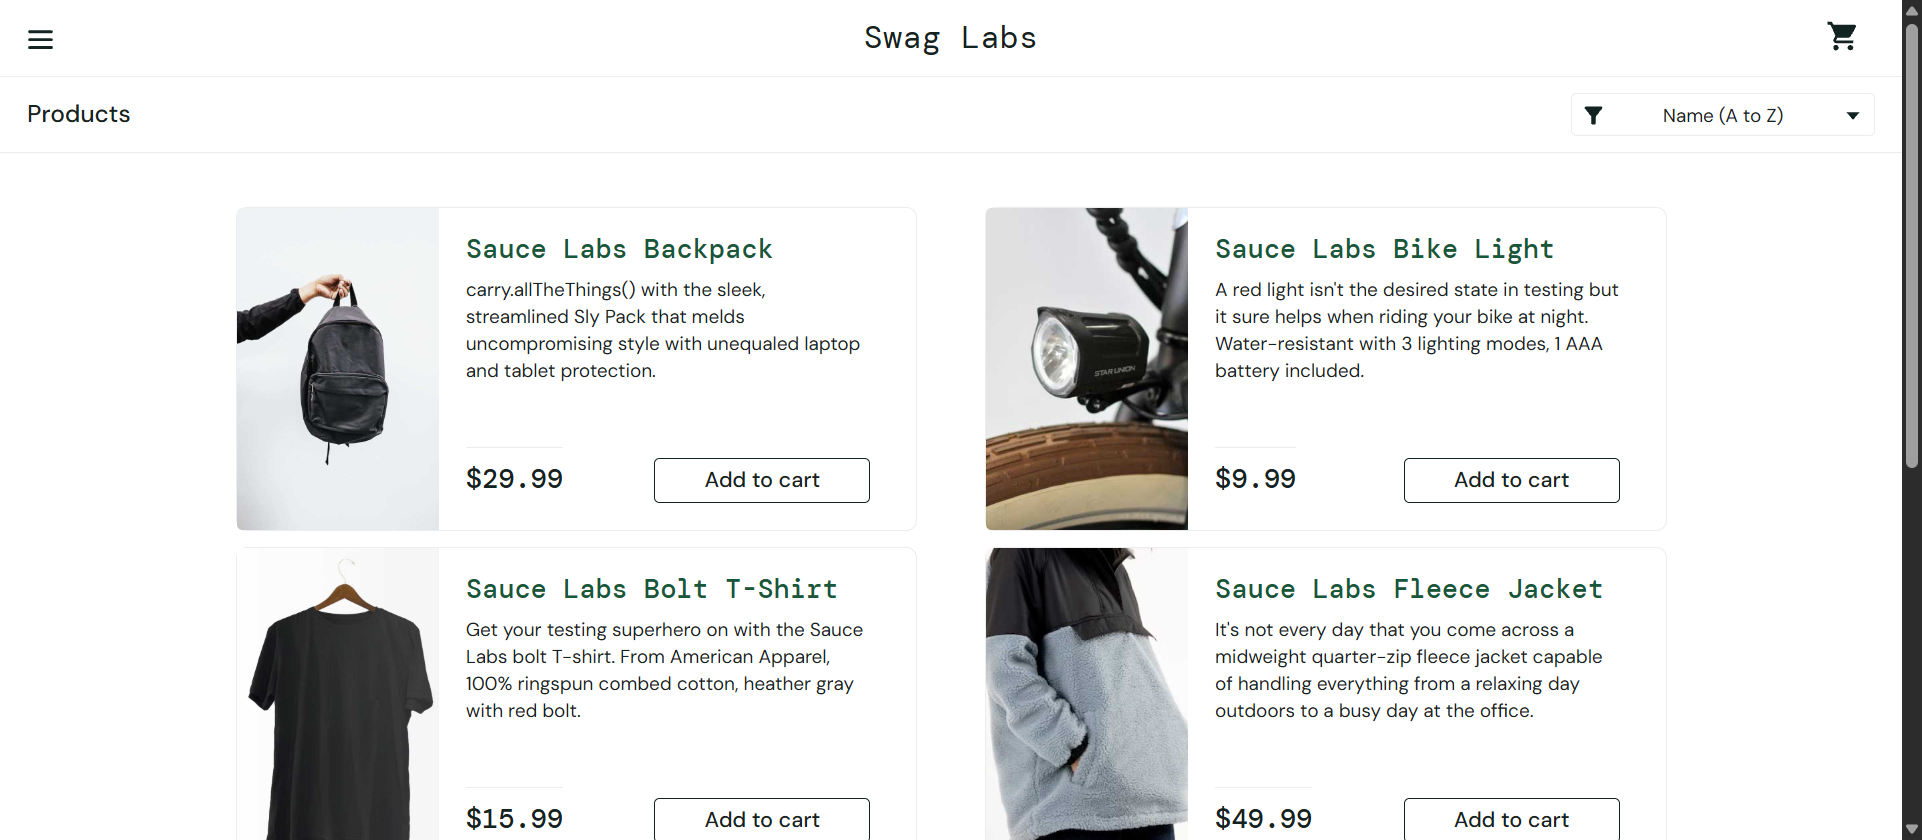
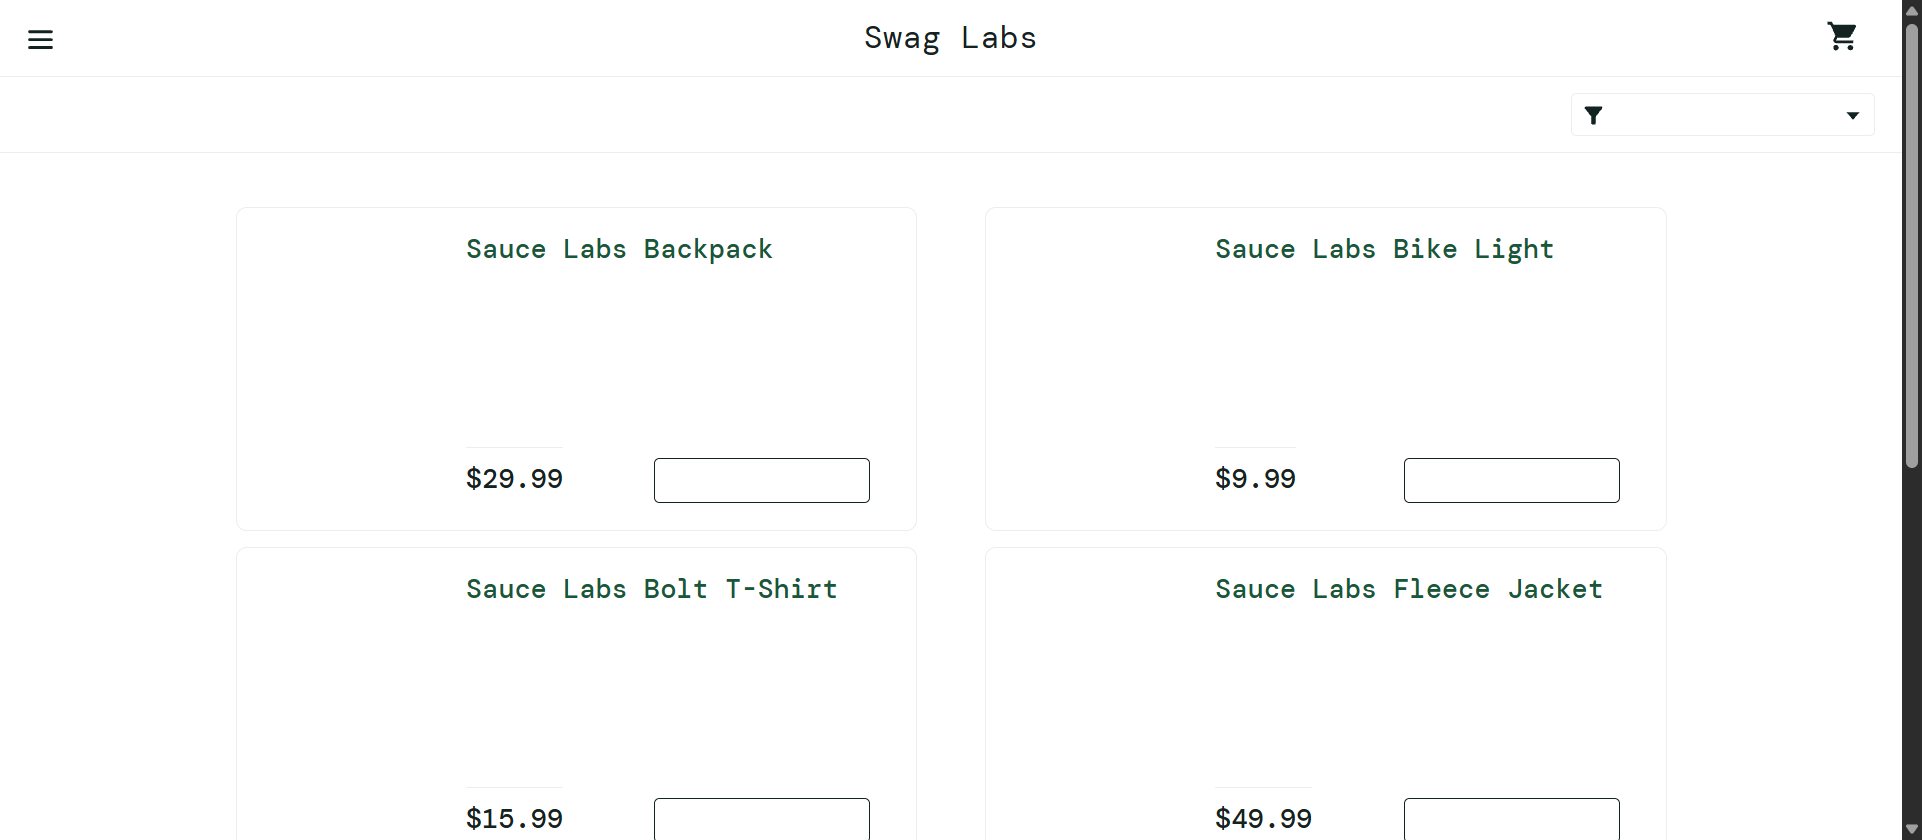
set1 done

diff --git a/QA automation by WO/set1/4test_cart.py b/QA automation by WO/set1/4test_cart.py
@@ -1,24 +1,13 @@
 from selenium import webdriver
 import os
 from selenium.webdriver.common.by import By
-from selenium.webdriver.support.ui import WebDriverWait,
-
-# it will give the mixture path 
-sc_path = os.path.join(os.path.dirname(__file__),"..","screenshots")
-
-# it converts mixture path into absoute path 
-sc_path = os.path.abspath(sc_path)
-
-
+from selenium.webdriver.support.ui import WebDriverWait
+from selenium.webdriver.support import expected_conditions as EC
 
 
 ops = webdriver.ChromeOptions()
 
-ops.add_experimental_option("prefs", {
-    "credentials_enable_service": False,
-    "profile.password_manager_enabled": False,
-    "profile.password_manager_leak_detection": False
-})
+ops.add_argument("--disable-features=PasswordManagerOnboarding")
 
 driver = webdriver.Chrome(options=ops)
 driver.maximize_window()
@@ -27,36 +16,51 @@ try :
     wait = WebDriverWait(driver,10)
     
     driver.get("https://www.saucedemo.com/")
+
+    username = wait.until(EC.visibility_of_element_located((By.ID, "user-name")))
     
-    driver.find_element(By.ID, "user-name").send_keys("standard_user")
-    
-    driver.find_element(By.ID,"password").send_keys("secret_sauce")
+    username.send_keys("standard_user")
+
+    passwd = wait.until(EC.visibility_of_element_located((By.ID,"password")))
+    passwd.send_keys("secret_sauce")
     
     driver.find_element(By.ID, "login-button").click()
 
-    driver.find_element(
+    bg_button = wait.until(EC.visibility_of_element_located((
         By.XPATH, '//*[@id="add-to-cart-sauce-labs-onesie"]'
-    ).click()
+    )))
+    bg_button.click()
 
-    driver.find_element(
+    biekbutn = wait.until(EC.visibility_of_element_located((
         By.ID, "add-to-cart-sauce-labs-bike-light"
-    ).click()
-    ctn = driver.find_element(By.XPATH,'//*[@id="shopping_cart_container"]/a/span').text
+    )))
+
+    biekbutn.click()
+
+    ctn = wait.until(EC.visibility_of_element_located((By.XPATH,'//*[@id="shopping_cart_container"]/a/span'))).text
 
     assert ctn == "2"
     print("pass1")
 
-    driver.find_element(By.XPATH,'//*[@id="remove-sauce-labs-onesie"]').click()
+    onesie = wait.until(EC.visibility_of_element_located((By.XPATH,'//*[@id="remove-sauce-labs-onesie"]')))
+    onesie.click()
+
 
     assert driver.find_element(By.XPATH,'//*[@id="shopping_cart_container"]/a/span').text == "1"
 
     print("Pass2")
 
+    driver.find_element(By.ID,'remove-sauce-labs-bike-light').click()
+    print("Pass3")
+
+    assert len(driver.find_elements(
+    By.XPATH, '//*[@id="shopping_cart_container"]/a/span'
+)) == 0
+  
+    print("Pass4")
+
 
     
 except Exception as e :
-    filename = "failure.png"
-    filepath = os.path.join(sc_path,filename)
-    driver.save_screenshot(filepath)
     print("test case faild :",e)
 

diff --git a/QA automation by WO/set1/3test_sorted_price_product.py b/QA automation by WO/set1/3test_sorted_price_product.py
@@ -2,7 +2,6 @@ from selenium import webdriver
 from selenium.webdriver.common.by import By
 from selenium.webdriver.support.ui import WebDriverWait,Select
 import time
-from selenium.webdriver.chrome.options import Options
 from selenium.webdriver.support import expected_conditions as EC
 
 
